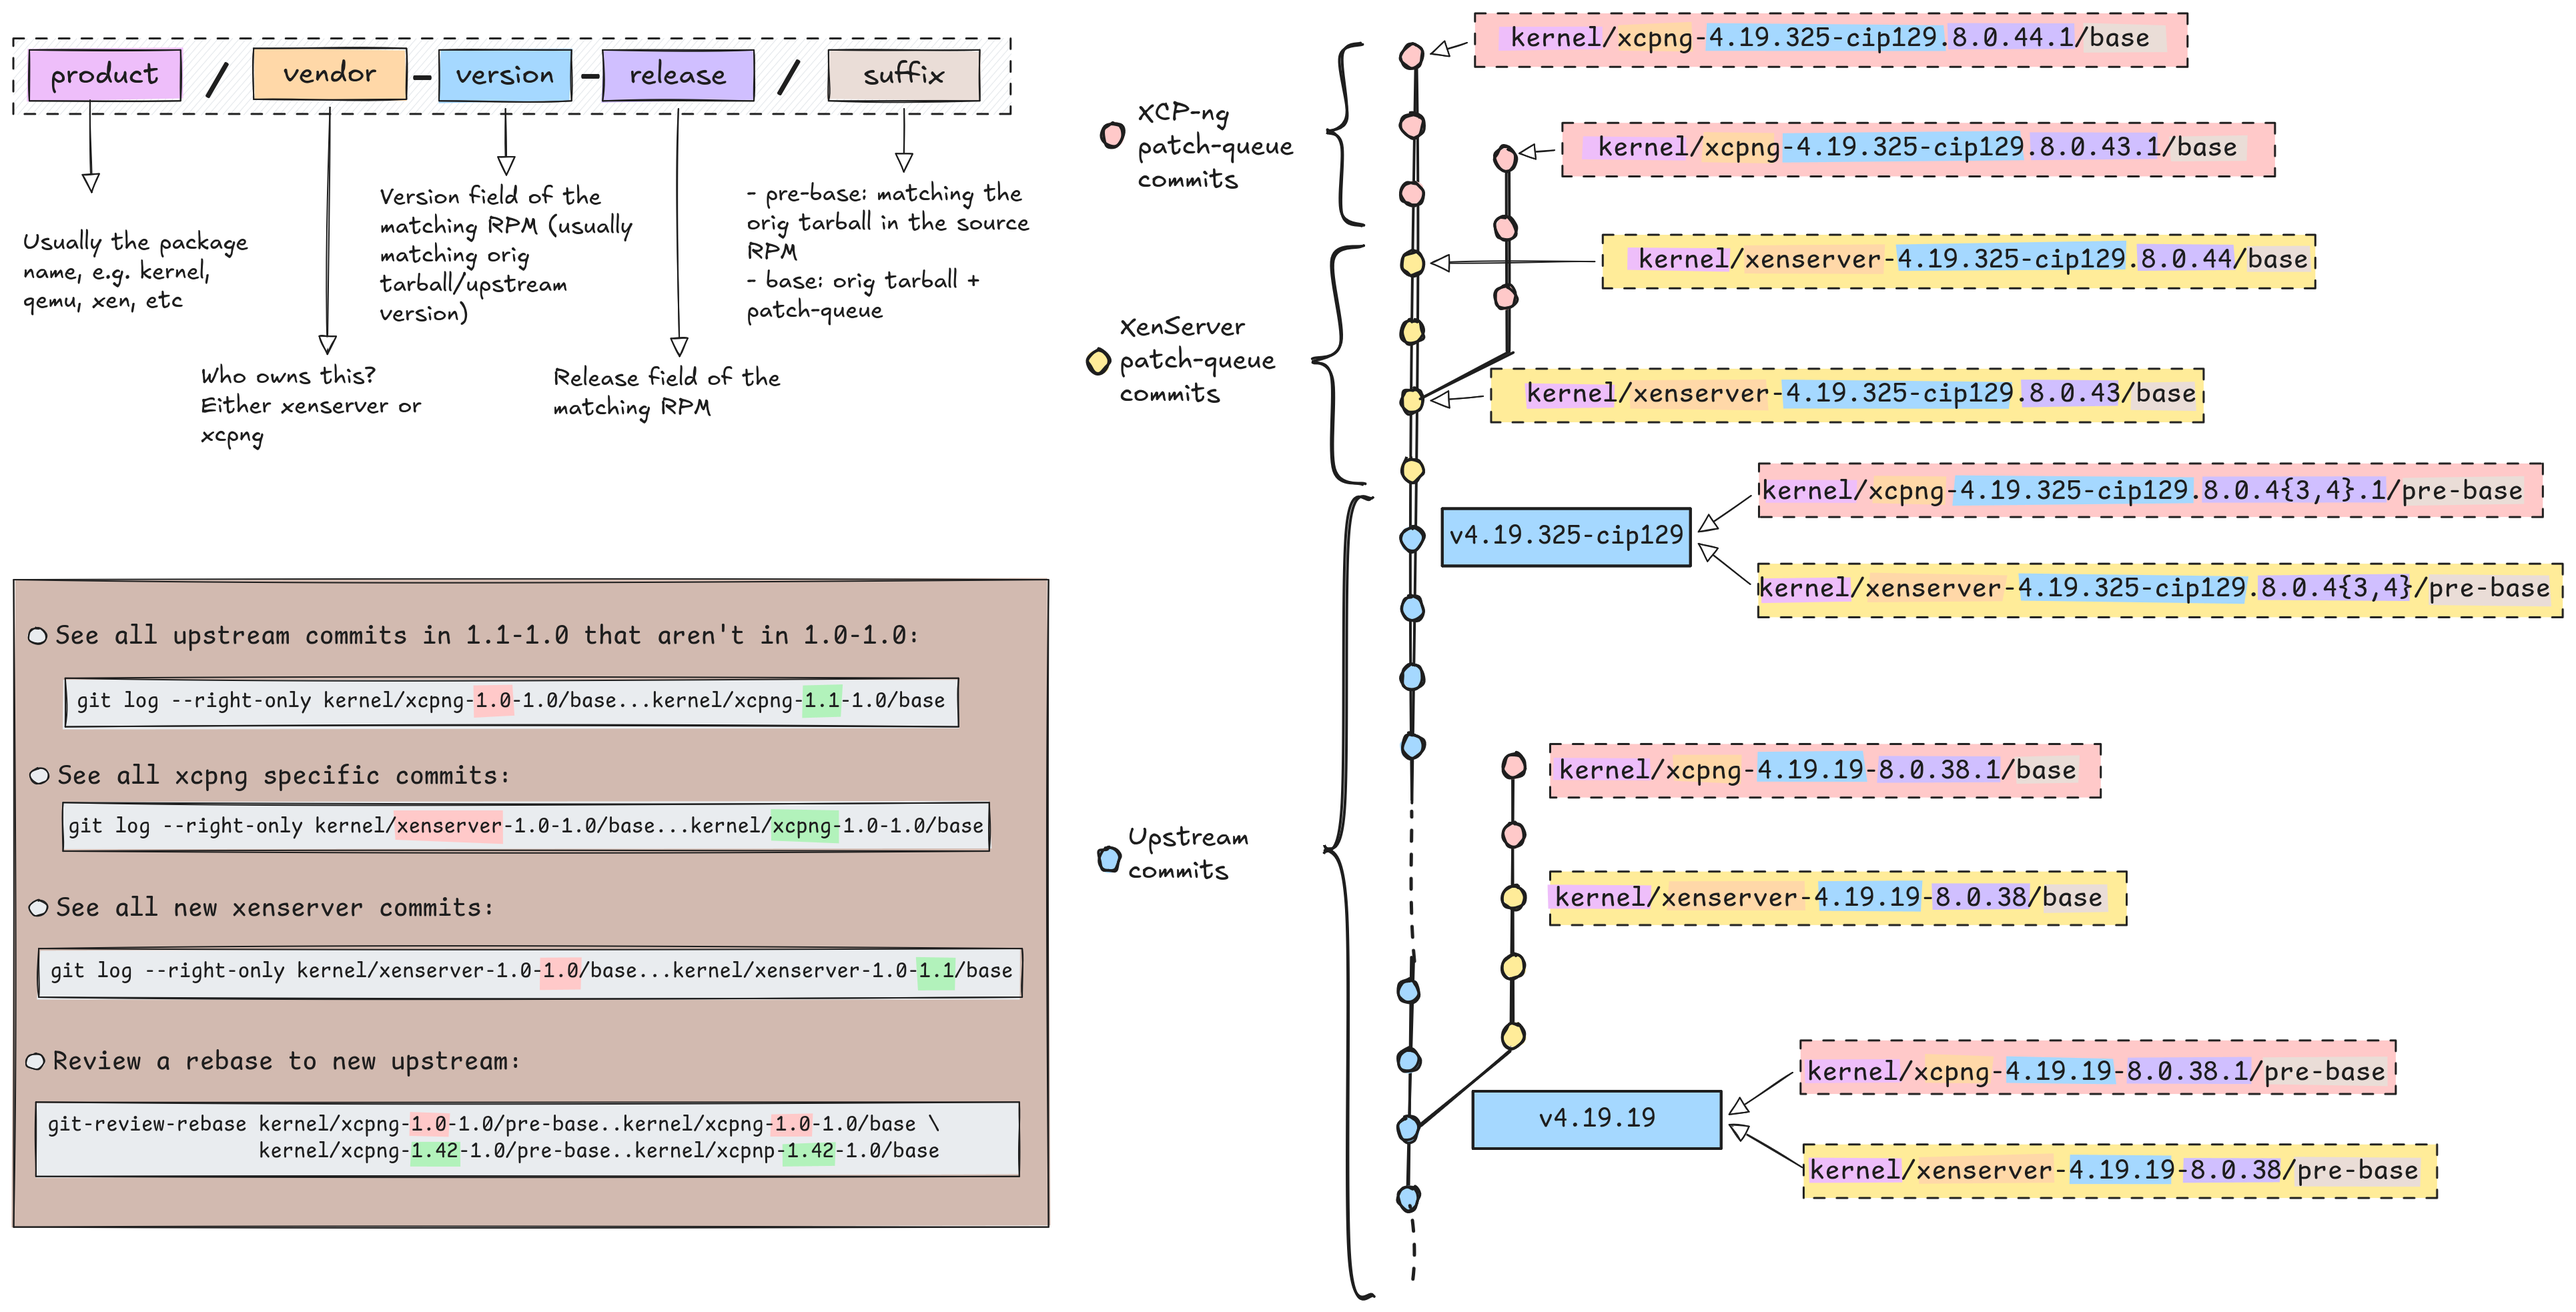
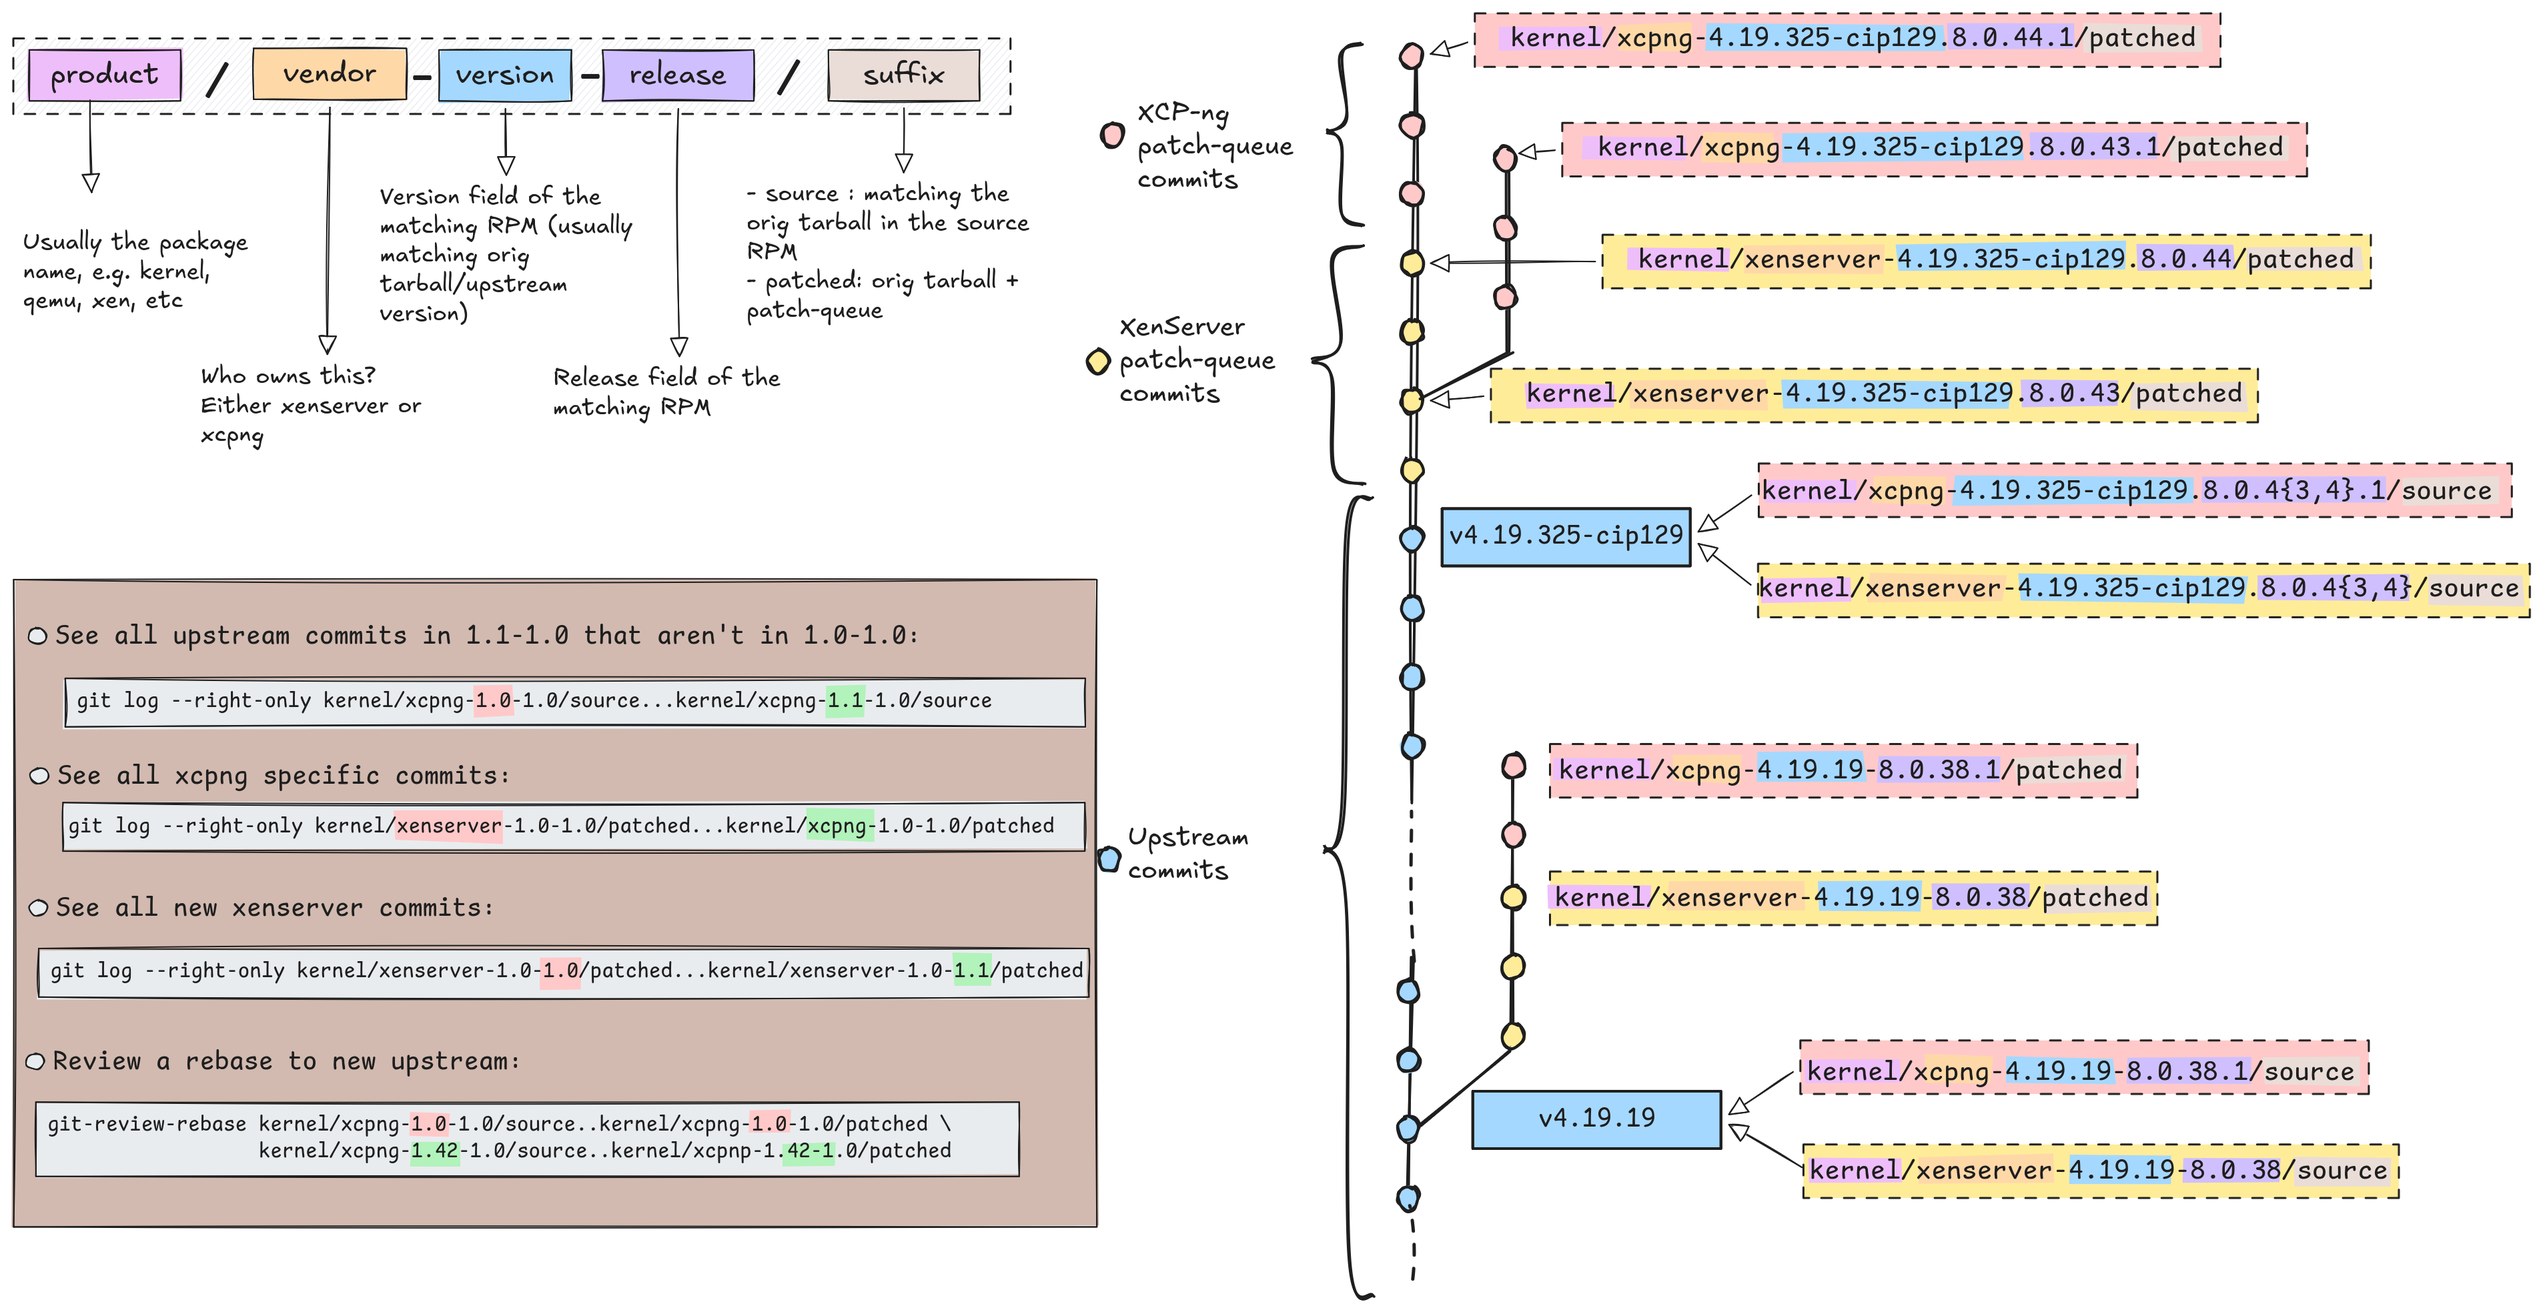
README: update branch suffixes following changes to git-import-srpm.
Thierry found that /pre-base and /base are not very meaningfull, so we've
changed to /source and /patched but the documentation was not updated.

diff --git a/README.md b/README.md
@@ -91,14 +91,14 @@ released package (qemu, xen, linux), a corresponding source branch is
 created in the form:
 
 ```
-<product>/xcpng-<version>-<release>/base
+<product>/xcpng-<version>-<release>/patched
 ```
 
-Where product would be `kernel` for the Linux kernel, e.g.: `kernel/xcpng-4.19.325-cip129.8.0.44.1/base`.
+Where product would be `kernel` for the Linux kernel, e.g.: `kernel/xcpng-4.19.325-cip129.8.0.44.1/patched`.
 
-For each `/base` branch, a corresponding `/pre-base` branch is created from
-the upstream point where the patch-queue of our SRPM was applied onto.  As
-such, our patch-queue can be found with the range `/pre-base../base`.
+For each `/patched` branch, a corresponding `/source` branch is created
+from the upstream point where the patch-queue of our SRPM was applied onto.
+As such, our patch-queue can be found with the range `/source../patched`.
 
 The branches are created by the
 [git-import-srpm](./scripts/git-import-srpm) script run from within the
@@ -214,17 +214,17 @@ sudo apt-get install rpm
 ## Rebase the kernel to latest upstream
 
 Find the last branch that was released,
-e.g. `kernel/xcpng-4.19.19-8.0.44.1/base`, we'll use it as the source of
+e.g. `kernel/xcpng-4.19.19-8.0.44.1/patched`, we'll use it as the source of
 the rebased commits:
 
 ```bash
 cd /path/to/source/repo
 
 # Last released branch
-prev_branch=$(git branch -r --list origin/kernel/xcpng\*/base | sort -V | tail -n 1)
+prev_branch=$(git branch -r --list origin/kernel/xcpng\*/patched | sort -V | tail -n 1)
 
 # Extra ^0 suffix to reference the commit and make sure original branch isn't updated
-git rebase ${prev_branch%/base}/pre-base ${prev_branch}^0 --onto v4.19.325
+git rebase ${prev_branch%/patched}/source ${prev_branch}^0 --onto v4.19.325
 ```
 
 > [!NOTE]
@@ -604,13 +604,13 @@ cherry-pick such a commit and integrate it into our patch-queue.
 
 ## Cherry-pick the commit
 
-Find the latest `/base` branch and create a working branch on top of it:
+Find the latest `/patched` branch and create a working branch on top of it:
 
 ```bash
 cd /path/to/source/repo
 
-base_branch=$(git branch -r --list origin/kernel/xcpng\*/base | sort -V | tail -n 1)
-git checkout -B <your-name>/add-<short-description> ${base_branch}
+patched_branch=$(git branch -r --list origin/kernel/xcpng\*/patched | sort -V | tail -n 1)
+git checkout -B <your-name>/add-<short-description> ${patched_branch}
 ```
 
 Cherry-pick the upstream commit (make sure to use -x):
